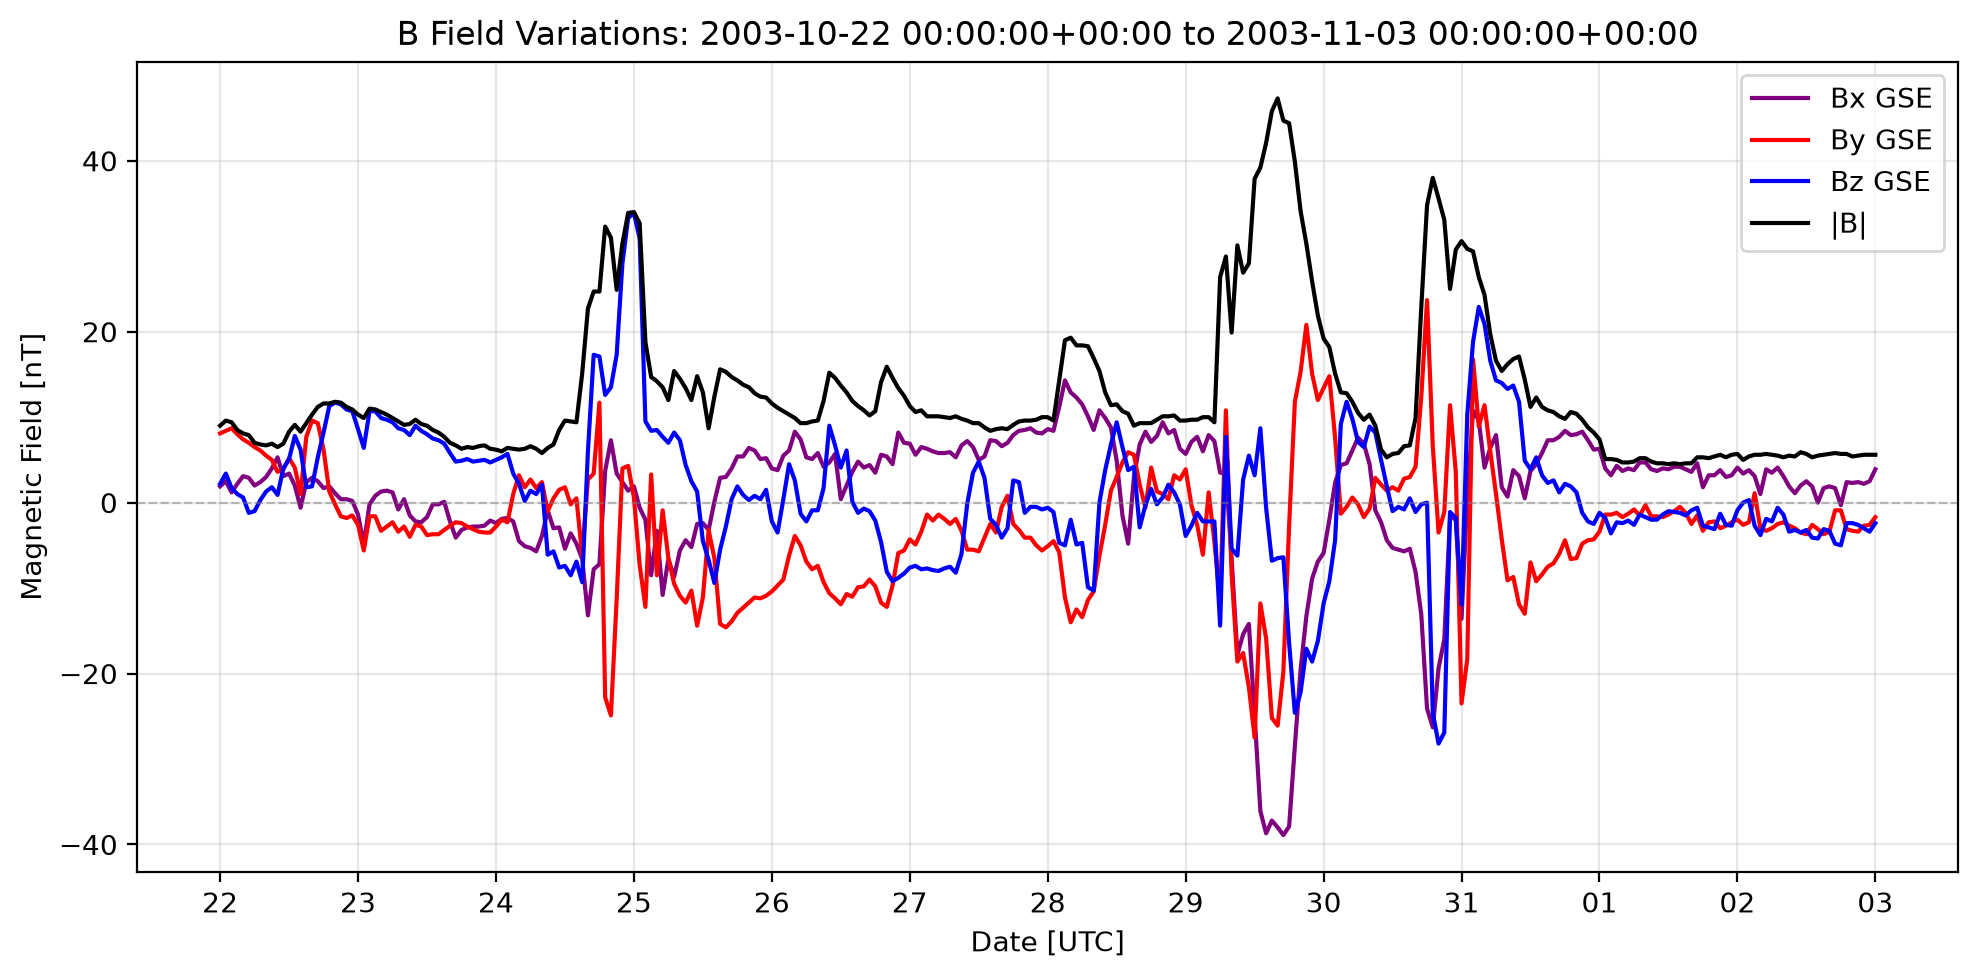
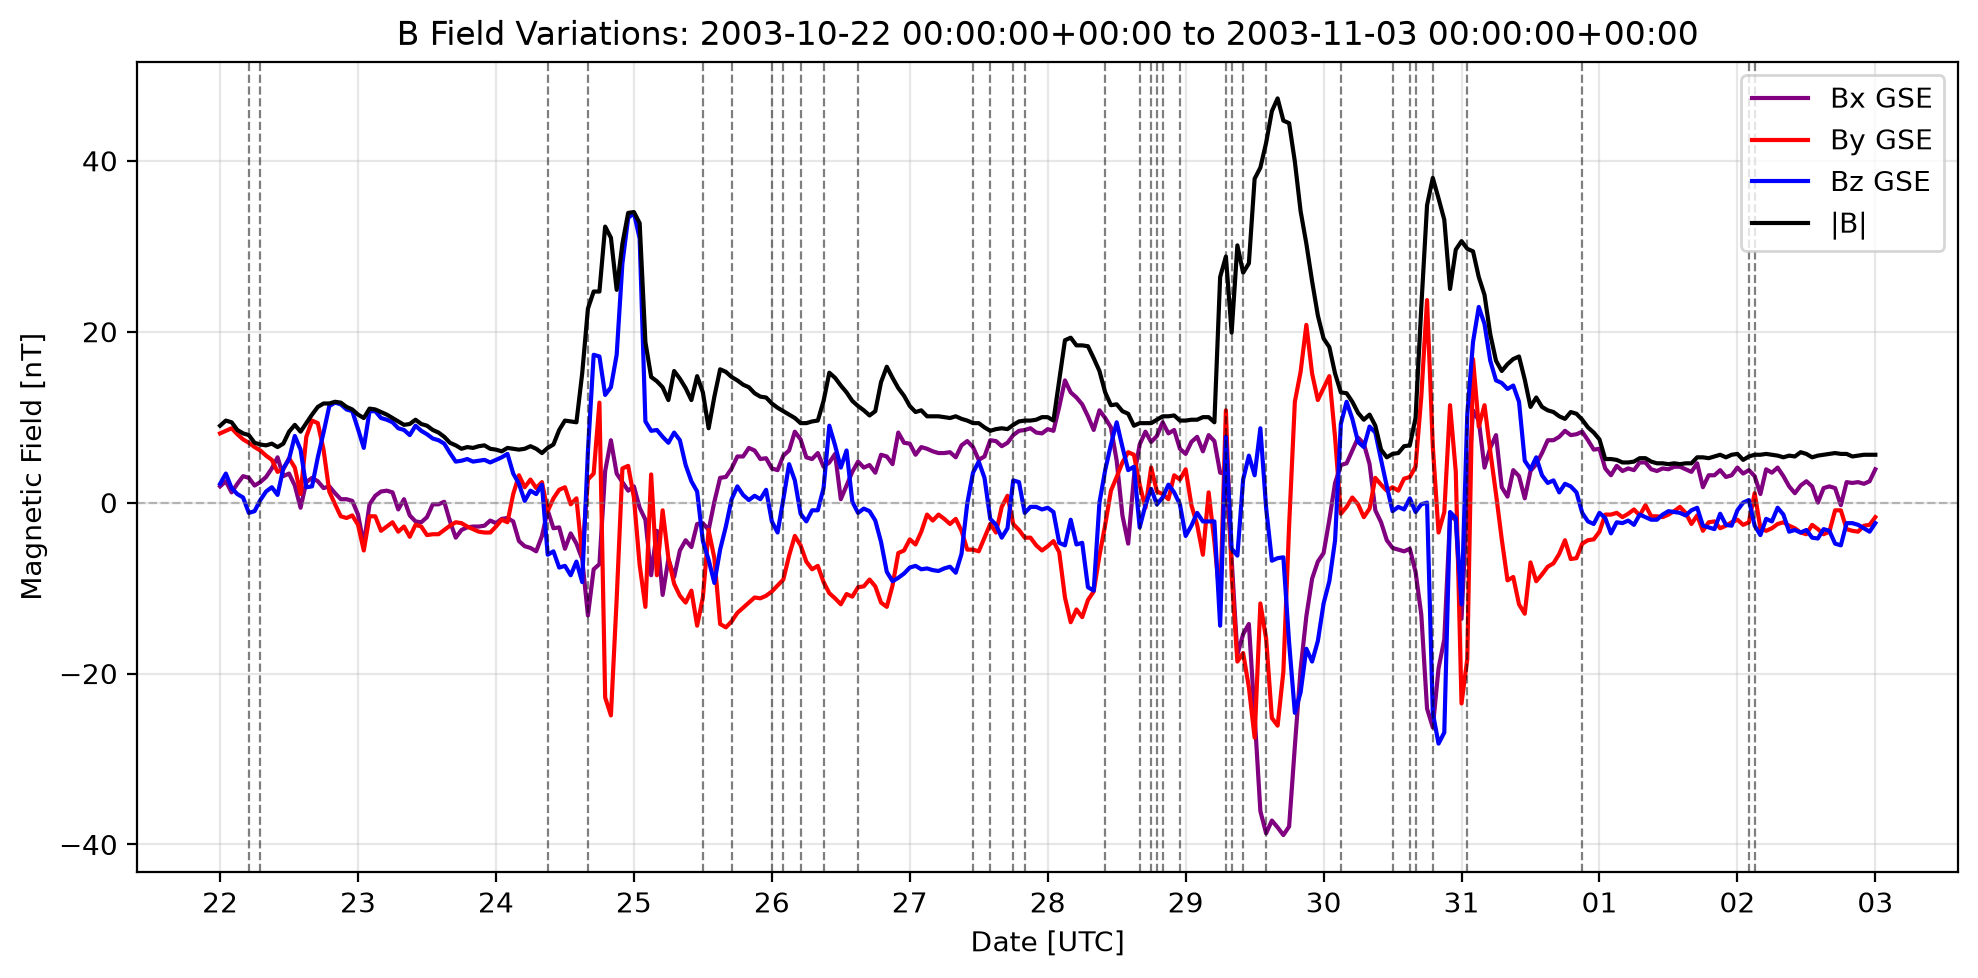
added forcing analysis code file

diff --git a/southward_forcing_analysis.py b/southward_forcing_analysis.py
@@ -1,0 +1,172 @@
+"""
+Integrated southward IMF forcing versus geomagnetic-storm intensity.
+
+Expected CSV columns:
+    time, Bz, Vsw, SYMH
+
+Units:
+    time: UTC timestamps
+    Bz: nT, preferably GSM Bz
+    Vsw: km/s
+    SYMH: nT
+
+This script uses event windows supplied by you. Define onset and end times
+using a documented storm catalogue or an explicit, reproducible criterion.
+"""
+
+from pathlib import Path
+import numpy as np
+import pandas as pd
+import matplotlib.pyplot as plt
+
+# ----------------------------
+# User settings
+# ----------------------------
+DATA_FILE = Path("omni_clean.csv")
+
+# Replace these example events with your selected storms.
+# For each event, use the same definition of onset and end.
+EVENTS = [
+    {
+        "event": "Halloween 2003",
+        "onset": "2003-10-29 00:00",
+        "end": "2003-11-01 00:00",
+    },
+    # {"event": "Storm 2", "onset": "YYYY-MM-DD HH:MM", "end": "YYYY-MM-DD HH:MM"},
+]
+
+# Optional threshold: only count southward IMF stronger than this value.
+# Set to 0.0 to count all southward Bz.
+BZ_THRESHOLD_NT = 0.0
+
+
+def prepare_data(path: Path) -> pd.DataFrame:
+    """Read, clean, sort, and calculate time intervals."""
+    df = pd.read_csv(path, parse_dates=["time"])
+    required = {"time", "Bz", "Vsw", "SYMH"}
+    missing = required.difference(df.columns)
+    if missing:
+        raise ValueError(f"Missing columns: {sorted(missing)}")
+
+    df = df[["time", "Bz", "Vsw", "SYMH"]].copy()
+    df = df.replace([np.inf, -np.inf], np.nan)
+    df = df.dropna(subset=["time", "Bz", "Vsw", "SYMH"])
+    df = df.sort_values("time").drop_duplicates("time")
+
+    # Duration of each sample in hours. The final row has no forward interval.
+    df["dt_h"] = df["time"].diff().dt.total_seconds().div(3600.0).shift(-1)
+    df["dt_h"] = df["dt_h"].where((df["dt_h"] > 0) & (df["dt_h"] < 6.0))
+
+    # Southward magnetic-field magnitude: Bs = max(0, -Bz - threshold).
+    # For Bz threshold = 0, northward Bz contributes zero.
+    df["Bs"] = (-df["Bz"] - BZ_THRESHOLD_NT).clip(lower=0.0)
+
+    # Solar-wind electric-field proxy in mV/m:
+    # Ey_proxy = Vsw * Bs * 1e-3, with Vsw in km/s and Bs in nT.
+    df["Ey_mVm"] = df["Vsw"] * df["Bs"] * 1e-3
+    return df
+
+
+def integrate_event(event_df: pd.DataFrame) -> dict:
+    """Calculate forcing measures and storm intensity for one event."""
+    valid = event_df.dropna(subset=["dt_h"])
+    if valid.empty:
+        raise ValueError("Event contains no valid time intervals")
+
+    # Rectangular integration. For higher-quality work, compare with a
+    # trapezoidal integration and report that the conclusion is unchanged.
+    integrated_bs = (valid["Bs"] * valid["dt_h"]).sum()       # nT h
+    integrated_ey = (valid["Ey_mVm"] * valid["dt_h"]).sum()  # mV/m h
+
+    minimum_symh = event_df["SYMH"].min()
+    minimum_time = event_df.loc[event_df["SYMH"].idxmin(), "time"]
+
+    duration = (event_df["time"].iloc[-1] - event_df["time"].iloc[0]).total_seconds() / 3600.0
+    return {
+        "duration_h": duration,
+        "integrated_Bs_nT_h": integrated_bs,
+        "integrated_Ey_mVm_h": integrated_ey,
+        "minimum_SYMH_nT": minimum_symh,
+        "minimum_SYMH_time": minimum_time,
+        "mean_Bs_nT": valid["Bs"].mean(),
+        "maximum_Bs_nT": valid["Bs"].max(),
+        "maximum_Ey_mVm": valid["Ey_mVm"].max(),
+    }
+
+
+def analyse_events(df: pd.DataFrame, events: list[dict]) -> pd.DataFrame:
+    rows = []
+    for event in events:
+        onset = pd.Timestamp(event["onset"], tz="UTC")
+        end = pd.Timestamp(event["end"], tz="UTC")
+        mask = (df["time"] >= onset) & (df["time"] <= end)
+        event_df = df.loc[mask].copy()
+        if event_df.empty:
+            print(f"Skipping {event['event']}: no data in selected interval")
+            continue
+        result = integrate_event(event_df)
+        result["event"] = event["event"]
+        result["onset"] = onset
+        result["end"] = end
+        rows.append(result)
+    return pd.DataFrame(rows)
+
+
+def plot_event(df: pd.DataFrame, event: dict) -> None:
+    """Plot the quantities used for one event."""
+    onset = pd.Timestamp(event["onset"], tz="UTC")
+    end = pd.Timestamp(event["end"], tz="UTC")
+    sub = df[(df["time"] >= onset) & (df["time"] <= end)]
+
+    fig, axes = plt.subplots(4, 1, figsize=(12, 9), sharex=True)
+    axes[0].plot(sub["time"], sub["Bz"], color="tab:blue")
+    axes[0].axhline(0, color="black", lw=0.8)
+    axes[0].set_ylabel("Bz [nT]")
+
+    axes[1].plot(sub["time"], sub["Bs"], color="tab:orange")
+    axes[1].set_ylabel("Bs [nT]")
+
+    axes[2].plot(sub["time"], sub["Ey_mVm"], color="tab:green")
+    axes[2].set_ylabel("Ey [mV/m]")
+
+    axes[3].plot(sub["time"], sub["SYMH"], color="black")
+    axes[3].set_ylabel("SYM-H [nT]")
+    axes[3].set_xlabel("UTC")
+
+    fig.suptitle(event["event"])
+    fig.tight_layout()
+    plt.show()
+
+
+if __name__ == "__main__":
+    data = prepare_data(DATA_FILE)
+    summary = analyse_events(data, EVENTS)
+
+    if summary.empty:
+        raise RuntimeError("No events were successfully analysed")
+
+    print(summary.to_string(index=False))
+
+    # Storm intensity is represented by the positive magnitude of the minimum
+    # SYM-H value, so stronger storms have larger values here.
+    summary["storm_intensity_nT"] = -summary["minimum_SYMH_nT"]
+
+    # Correlation is meaningful only when several events are available.
+    if len(summary) >= 3:
+        print("\nEvent-level correlations:")
+        print(summary[["integrated_Bs_nT_h", "integrated_Ey_mVm_h", "storm_intensity_nT"]].corr())
+
+        fig, ax = plt.subplots(figsize=(7, 5))
+        ax.scatter(summary["integrated_Ey_mVm_h"], summary["storm_intensity_nT"])
+        for _, row in summary.iterrows():
+            ax.annotate(row["event"], (row["integrated_Ey_mVm_h"], row["storm_intensity_nT"]))
+        ax.set_xlabel("Integrated Ey proxy [mV/m h]")
+        ax.set_ylabel("Storm intensity, -minimum SYM-H [nT]")
+        ax.set_title("Integrated southward forcing versus storm intensity")
+        ax.grid(True, alpha=0.3)
+        fig.tight_layout()
+        plt.show()
+    else:
+        print("\nAdd at least three events before interpreting event-level correlations.")
+
+    plot_event(data, EVENTS[0])

diff --git a/omni_testing.py b/omni_testing.py
@@ -272,6 +272,16 @@ def plot_B_field(df: pd.DataFrame, output_path: str) -> None:
     plt.plot(df.index, df['ABS_B1800'], label='|B|', color='black')
     plt.axhline(0, color='gray', linestyle='--', alpha = 0.5, linewidth=0.8) #useful for checking whether B_z environment favours reconnection
     ax = plt.gca()
+
+    for i in range(len(df['BZ_GSE1800'])):
+        if df['BZ_GSE1800'][i] < 0 and df['BZ_GSE1800'][i-1] > 0:
+            ax.axvline(df.index[i], color='black', linestyle='--', alpha = 0.5, linewidth=0.8)
+        elif df['BZ_GSE1800'][i] > 0 and df['BZ_GSE1800'][i-1] < 0:
+            ax.axvline(df.index[i], color='black', linestyle='--', alpha = 0.5, linewidth=0.8)
+        else:
+            pass
+#bounds the regions with southward B field
+    
     ax.xaxis.set_major_locator(mdates.DayLocator(interval=1))
     ax.xaxis.set_major_formatter(mdates.DateFormatter('%d'))
 
